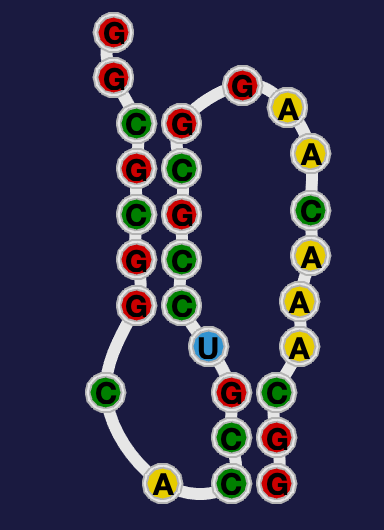
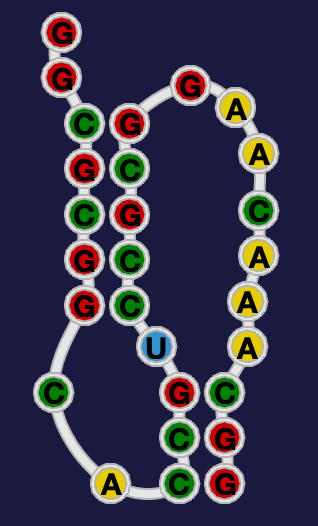
reorgnize pseudoknots/ directory

diff --git a/drawings/pseudoknot/smoothloops_test.m b/drawings/pseudoknot/smoothloops_test.m
@@ -1,4 +1,4 @@
-load 1l2x_coords_bpspacing3.mat % coords variable
+load 1l2x_coords.mat % coords variable
 clf
 set(figure(2),'position',[   184   649   223   283 ]);
 set(gcf, 'PaperPositionMode','auto','color','white');
@@ -11,7 +11,7 @@ y = interp1( 1:N, coords(:,2), t, interp_method );
 plot( x, y, '-','linew',6,'color',[1,1,1]*0.7);
 hold on
 plot( x, y, '-','linew',4,'color',[1,1,1]*0.9);
-sequence = 'ggcgcggcaccguccgcggaacaaacgg'
+sequence = 'ggcgcggcaccguccgcggaacaaacgg';
 for i = 1:N
     switch upper(sequence(i))
         case 'A'
@@ -32,4 +32,17 @@ axis image
 axis off
 set(gca,'ydir','reverse')
 set(gcf,'color',[0.1 0.1 0.25] );
+
+% print out an array that I can use for typescript. 
+% Make this a ribodraw function.
+% Later should also permit JSON output.
+fprintf( '\nlet force_layout : Array<[number,number]> = [' );
+spacing = 3; % later pull this from plot_settings.spacing !
+for i = 1:N
+    fprintf( '[%f,%f]', coords(i,1)/spacing, coords(i,2)/spacing );
+    if ( i < N ) fprintf( ', '); end;
+end
+fprintf( '];\n' );
+
+
 
